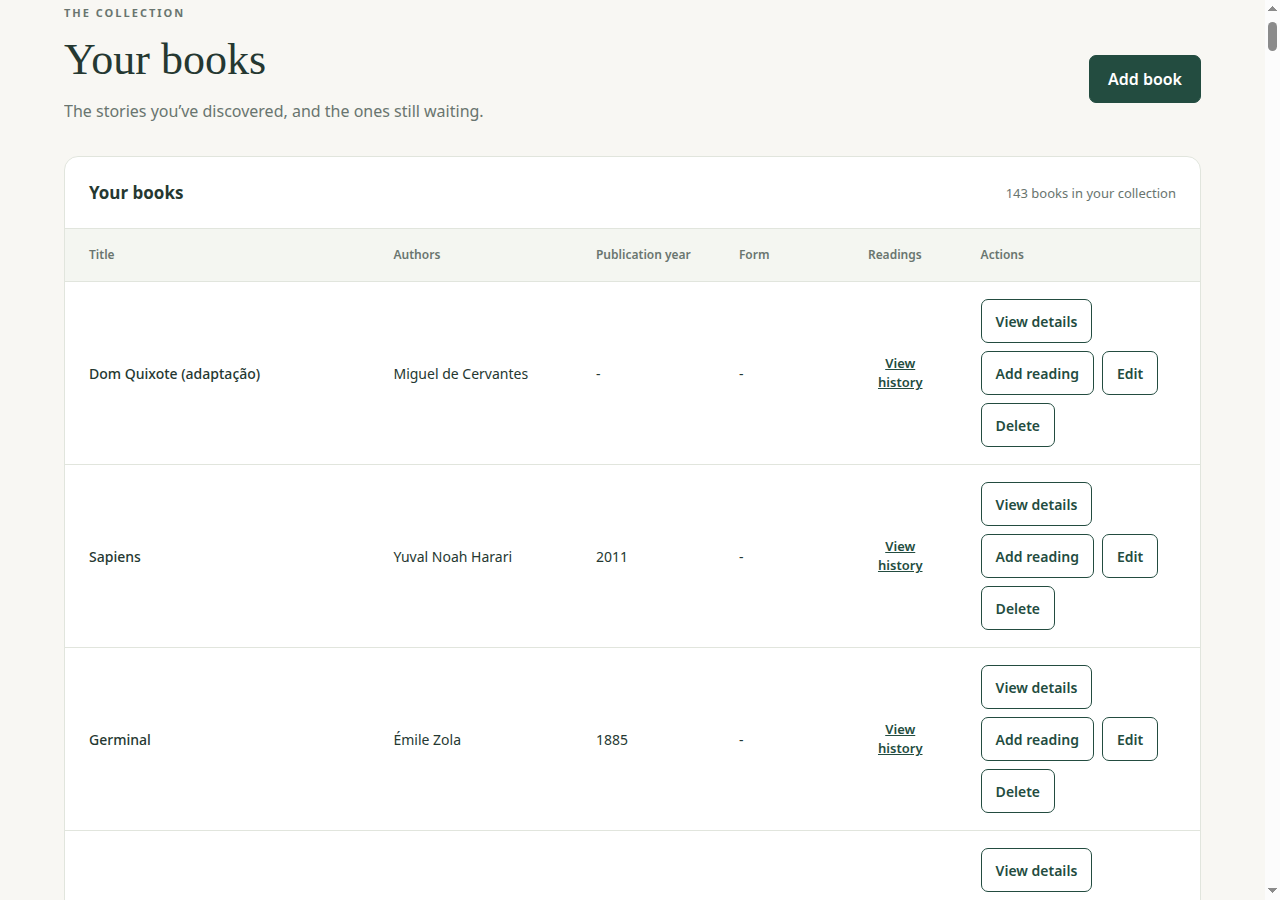
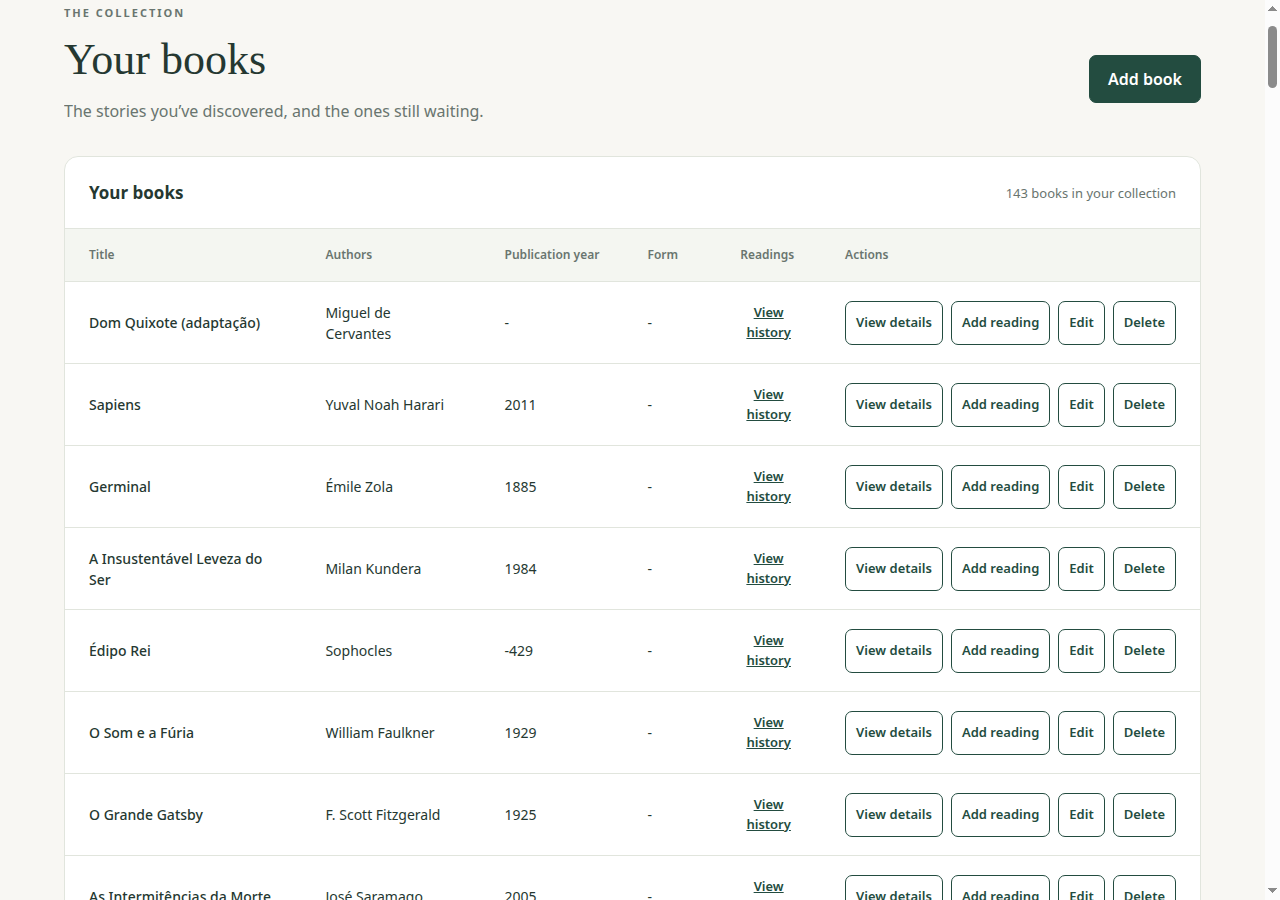
fix: alinha ações no desktop e registra revisão dos requisitos

diff --git a/frontend/css/styles.css b/frontend/css/styles.css
@@ -514,8 +514,12 @@ footer #reset-data {
 .checkbox-options:focus-within { outline-offset:2px; }
 dialog { overflow-y:auto; max-height:85dvh; }
 .dialog-heading h2 { min-width:0; overflow-wrap:anywhere; }
-.row-actions { flex-wrap:wrap; white-space:normal; }
-.row-actions button { min-height:44px; }
+.row-actions { flex-wrap:nowrap; white-space:nowrap; }
+.row-actions button { min-height:44px; flex-shrink:0; }
+@media(min-width:851px) {
+  td:has(> .row-actions) { width:1%; }
+  .row-actions button { padding:8px 10px; font-size:13px; }
+}
 td { overflow-wrap:anywhere; }
 @media(max-width:850px) {
   .table-scroll { overflow:visible; }
@@ -528,7 +532,7 @@ td { overflow-wrap:anywhere; }
   .table-scroll tbody tr { display:block; margin:14px; border:1px solid var(--line); border-radius:8px; padding:12px; }
   .table-scroll td { display:block; padding:8px 0; border:0; min-width:0; }
   .table-scroll td::before { content:attr(data-label); display:block; font-size:12px; color:var(--muted); font-weight:600; margin-bottom:4px; }
-  .row-actions { gap:8px; }
+  .row-actions { gap:8px; flex-wrap:wrap; white-space:normal; }
   .book-details { grid-template-columns:minmax(0,1fr); gap:8px; }
   .book-details dd { margin-bottom:12px; }
 }

diff --git a/docs/specs/FR-UI-01-usabilidade-mobile-prd.md b/docs/specs/FR-UI-01-usabilidade-mobile-prd.md
@@ -43,6 +43,28 @@ Busca, filtros, paginação, redesign, backend, dependências de build e auditor
 - [Autores em 390px](../screenshots/fr-ui-01-authors-390.png)
 - [Livros em 390px](../screenshots/fr-ui-01-books-390.png)
 - [Livros em 1280px](../screenshots/fr-ui-01-books-1280.png)
+- [Histórico em 1280px](../screenshots/fr-ui-01-readings-1280.png)
 - [Formulário em 390px](../screenshots/fr-ui-01-form-390.png)
 
 Implementado e verificado localmente; pendente revisão de outro integrante e integração via PR. As capturas documentam o resultado; não foi produzida comparação visual antes/depois nesta sessão.
+
+## Revisão dos materiais e ajuste das ações — 12/11/2026
+
+Conferidos os PDFs e seed de Instrucoes_site.zip: conteúdo idêntico aos arquivos versionados em materiais/. O seed do frontend também permanece idêntico ao JSON do ZIP. A revisão confrontou as seções 3–6 e 11 do enunciado com os módulos de interface, validação e armazenamento e com as suítes existentes.
+
+| Exigência | Comportamento conferido |
+| --- | --- |
+| Stack e idioma | HTML/CSS/JavaScript puros, módulos ES, interface en-US, sem dependências de build no produto. Node e Chrome são ferramentas de teste. |
+| FR-01 | CRUD de autores, nome único sem distinguir caixa, nacionalidade fixa/opcional, datas opcionais e validação; exclusão de autor vinculado informa livros. |
+| FR-02 | Livro apenas com título, autores/temas existentes por IDs, múltiplas seleções e criação imediata de tema; anos negativos aceitos, zero/futuro rejeitados. |
+| FR-03 | Leituras independentes para releitura, livro e primeira leitura em uma gravação, exclusão em cascata com confirmação e contagem. |
+| FR-04 | Cinco status, ano obrigatório em Read, ano/nota somente em Read/Abandoned, nota 0–10 em passos de 0,5; prioridade removida ao sair da wishlist, notas/recomendação preservadas e limpeza de resultados confirmada. |
+| FR-05 | Cinco colunas ordenáveis, ausentes mostrados como traço e ordenados por último; padrão ano decrescente e ID crescente. |
+| FR-06 | Regras de domínio e erros associados aos campos nas operações examinadas; falhas não persistem candidatos inválidos. |
+| FR-07 | Seed apenas no primeiro uso; alterações persistem após recarga; Reset confirmado restaura o original, incluindo campos intencionalmente ausentes. |
+
+Não foi identificada divergência bloqueadora nos fluxos examinados. Os dados ausentes não foram enriquecidos automaticamente. A revisão não substitui aceite do colega, avaliação completa de acessibilidade ou a regressão final em dois navegadores.
+
+Ajuste solicitado na revisão visual: ações em uma única linha no desktop, botões compactos e coluna dimensionada pelo conteúdo; quebra de linha somente nos cartões até 850px. Altura mínima de 44px mantida. Capturas atualizadas para refletir esse ajuste.
+
+Verificação após o ajuste: `node scripts/check-frontend.mjs` aprovado novamente com 324 verificações e sintaxe, em Node v24.21.0/Chrome 156.0.8078.73 no Linux. Relatório local: /tmp/reading-tracker-check-NVa1tS. Matriz das três telas em 360/390/768/1280px aprovada; capturas desktop conferidas visualmente. Limites de emulação e revisão humana permanecem os descritos acima.
